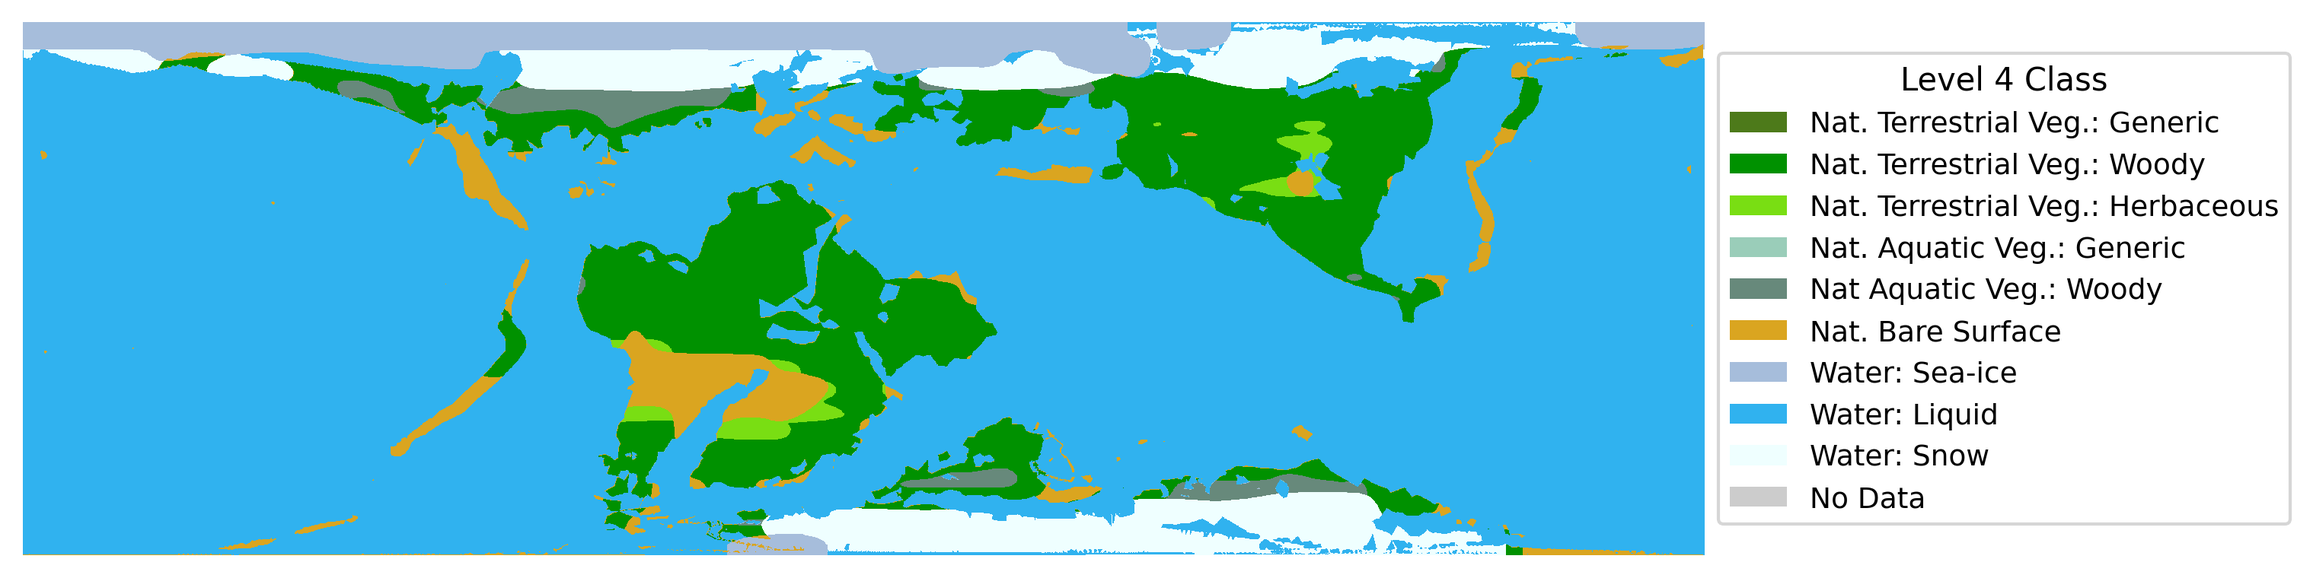
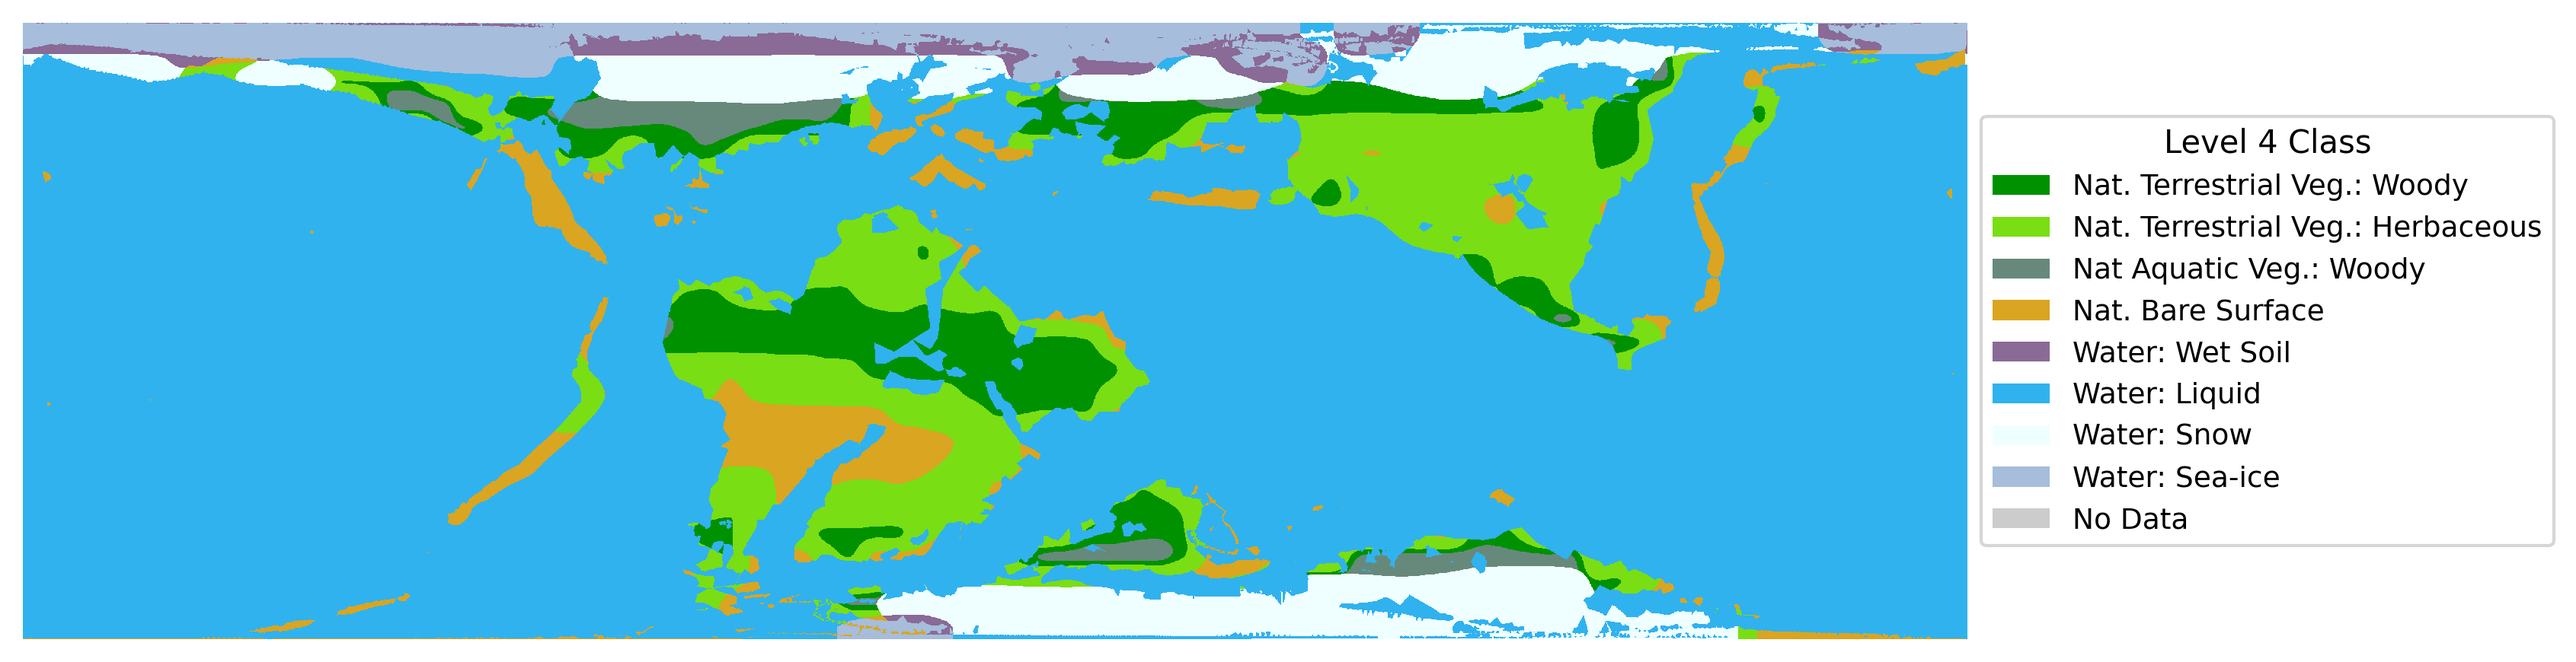
Edited inspect outputs scripts and graphs

Changed region(s): [[0.0, 0.0303, 1.0, 0.9684], [0.5569, 0.7263, 0.5879, 0.7566]]

diff --git a/inspect_outputs/plot_6_L4_maps.py b/inspect_outputs/plot_6_L4_maps.py
@@ -1,0 +1,131 @@
+import rasterio
+import numpy as np
+import matplotlib.pyplot as plt
+from matplotlib.colors import ListedColormap
+from matplotlib.patches import Patch
+from matplotlib.gridspec import GridSpec
+import json
+import os
+from pathlib import Path
+
+
+CONFIG_PATH = Path(__file__).resolve().parent.parent / "config.json"
+with open(CONFIG_PATH, "r") as f:
+    _config = json.load(f)
+le_outputs = _config["LE_outputs"]
+
+# --- Configuration ---
+# Change this to any 6 folder names in your series
+AGES = ["2000", "2056", "2120", "2250", "2444", "2545"]
+LEVEL4_BAND = 4  # The band containing the classification codes
+
+# --- Legend & Style (Exactly as defined in your previous script) ---
+# Format: Code: (Label, Hex Color)
+LEVEL4_STYLE = {
+    20:  ("Nat. Terrestrial Veg.: Woody",          "#009100"),
+    21:  ("Nat. Terrestrial Veg.: Herbaceous",     "#79de13"),
+    56:  ("Nat Aquatic Veg.: Woody",               "#67897b"),
+    94:  ("Nat. Bare Surface",                      "#daa520"),
+    98:  ("Water: Wet Soil",                       "#8a6a96"),
+    99:  ("Water: Liquid",                         "#30b2ef"),
+    105: ("Water: Snow",                           "#efffff"),
+    106: ("Water: Sea-ice",                         "#a6bddb"),
+    255: ("No Data",                               "#cccccc"),  # placeholder - not in your .qml
+}
+
+# Precompute code -> index mapping, colors, labels (shared across all panels)
+sorted_codes = sorted(LEVEL4_STYLE.keys())
+code_to_index = {code: idx for idx, code in enumerate(sorted_codes)}
+colors = [LEVEL4_STYLE[code][1] for code in sorted_codes]
+labels = [LEVEL4_STYLE[code][0] for code in sorted_codes]
+cmap = ListedColormap(colors)
+
+
+def load_plot_data(age_str):
+    """Read a single age's raster and re-index it onto the shared class codes."""
+    file_path = os.path.join(le_outputs, age_str, "level4_out_LE_DT.tif")
+
+    if not os.path.exists(file_path):
+        print(f"Error: File not found at {file_path}")
+        return None
+
+    print(f"Processing age: {age_str} -> {file_path}")
+
+    with rasterio.open(file_path) as src:
+        data = src.read(LEVEL4_BAND)
+
+    plot_data = np.full(data.shape, -1, dtype=float)  # -1 for nodata/unmapped
+    for code, idx in code_to_index.items():
+        plot_data[data == code] = idx
+
+    return plot_data
+
+
+def plot_grid(ages):
+    if len(ages) != 6:
+        raise ValueError(f"Expected exactly 6 ages, got {len(ages)}: {ages}")
+
+    # 4 rows x 2 cols: rows 0-2 are the maps, row 3 (spanning both cols) is the legend.
+    # height_ratios makes the legend row shorter than the map rows.
+    fig = plt.figure(figsize=(10, 7.5))
+    gs = GridSpec(
+        4, 2, figure=fig, height_ratios=[1, 1, 1, 0.3],
+        hspace=0.04, wspace=0.02,
+        left=0.01, right=0.99, top=0.97, bottom=0.01,
+    )
+
+    for i, age_str in enumerate(ages):
+        row, col = divmod(i, 2)
+        ax = fig.add_subplot(gs[row, col])
+
+        age_ma = int(age_str) - 2000
+        age_label = f"{age_ma} Ma"
+
+        plot_data = load_plot_data(age_str)
+        if plot_data is None:
+            ax.set_xticks([])
+            ax.set_yticks([])
+            for spine in ax.spines.values():
+                spine.set_edgecolor('black')
+                spine.set_linewidth(1.2)
+            ax.text(0.02, 0.5, f"{age_label} (missing)", transform=ax.transAxes,
+                    fontsize=9, va='center', ha='left')
+            continue
+
+        ax.imshow(plot_data, cmap=cmap, vmin=0, vmax=len(sorted_codes) - 1, interpolation='nearest')
+        ax.set_xticks([])
+        ax.set_yticks([])
+        for spine in ax.spines.values():
+            spine.set_edgecolor('black')
+            spine.set_linewidth(1.2)
+
+        # Age label as a text box in the top-left corner
+        ax.text(
+            0.02, 0.96, age_label, transform=ax.transAxes,
+            fontsize=10, va='top', ha='left',
+            bbox=dict(boxstyle="square,pad=0.25", facecolor="white", edgecolor="black", linewidth=0.8),
+        )
+
+    # Legend axis spans the full width of the 4th row
+    legend_ax = fig.add_subplot(gs[3, :])
+    legend_ax.axis('off')
+
+    legend_handles = [Patch(facecolor=color, label=label) for color, label in zip(colors, labels)]
+    legend_ax.legend(
+        handles=legend_handles,
+        loc="center",
+        ncol=4,
+        fontsize=9,
+        title="Level 4 Class",
+        frameon=True,
+        borderaxespad=0,
+    )
+
+    out_name = "level4_map_grid.png"
+    plt.savefig(out_name, dpi=300, bbox_inches='tight', pad_inches=0.05)
+    print(f"Map saved to {out_name}")
+    plt.show()
+
+
+if __name__ == "__main__":
+    plot_grid(AGES)

diff --git a/inspect_outputs/plot_one_l4_map.py b/inspect_outputs/plot_one_l4_map.py
@@ -19,16 +19,15 @@ LEVEL4_BAND = 4  # The band containing the classification codes
 # --- Legend & Style (Exactly as defined in your previous script) ---
 # Format: Code: (Label, Hex Color)
 LEVEL4_STYLE = {
-    19:  ("Nat. Terrestrial Veg.: Generic",       "#4d7a1a"),  # placeholder - not in your .qml
     20:  ("Nat. Terrestrial Veg.: Woody",          "#009100"),
     21:  ("Nat. Terrestrial Veg.: Herbaceous",     "#79de13"),
-    55:  ("Nat. Aquatic Veg.: Generic",           "#9acdb9"),
     56:  ("Nat Aquatic Veg.: Woody",               "#67897b"),
     94:  ("Nat. Bare Surface",                      "#daa520"),
-    98:  ("Water: Sea-ice",                       "#a6bddb"),
+    98:  ("Water: Wet Soil",                       "#8a6a96"),
     99:  ("Water: Liquid",                         "#30b2ef"),
     105: ("Water: Snow",                           "#efffff"),
-    255: ("No Data",                               "#cccccc"),  # placeholder - not in your .qml
+    106: ("Water: Sea-ice",                         "#a6bddb"),
+    255: ("No Data",                               "#cccccc"),
 }
 
 
@@ -80,7 +79,7 @@ def plot_single_map(age_str):
         plot_data[data == code] = idx
 
     # 4. Plotting
-    fig, ax = plt.subplots(figsize=(10, 3))
+    fig, ax = plt.subplots(figsize=(12, 3))
 
     # Plot the re-indexed data
     # vmin/vmax ensure the colormap stretches exactly across our defined classes
@@ -112,6 +111,7 @@ def plot_single_map(age_str):
     out_name = f"level4_map_age_{age_str}.png"
     plt.savefig(out_name, dpi=300, bbox_inches='tight')
     print(f"Map saved to {out_name}")
+    plt.tight_layout()
     plt.show()
 
 
